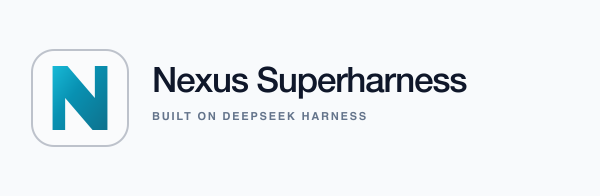
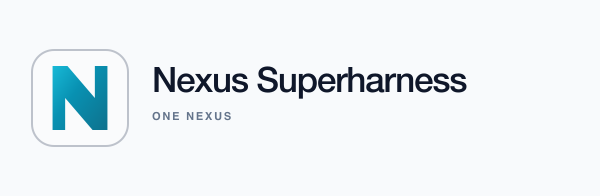
fix(desktop): drop the DeepSeek Harness credit from the packaged app identity (#41)
* fix(desktop): drop the DeepSeek attribution from the packaged identity

The About panel, Info.plist NSHumanReadableCopyright and installer art all
read the product identity, which still credited DeepSeek Harness. The
copyright now names only One Nexus, the unused attribution field is gone,
and the DMG background and Windows installer art print the publisher
instead. A spec pins the identity and artwork text.

The diagnostics guide names the crash-log directory the packaged app
actually uses, ~/Library/Logs/Nexus Superharness.

Refs #34

* fix(desktop): regenerate installer art without the DeepSeek credit

The DMG background, Windows installer banners and uninstaller sidebar now
carry the One Nexus publisher line. The PNGs are the output of
render-brand-assets.ts on a macOS runner, so every glyph uses the same
Helvetica rendering as the committed art.

The macOS uninstall cleanup script also removes the log directory the
packaged app writes, ~/Library/Logs/Nexus Superharness.

Refs #34

---------

Changed region(s): [[0.24, 0.551, 0.63, 0.6122]]

diff --git a/apps/desktop/scripts/render-brand-assets.ts b/apps/desktop/scripts/render-brand-assets.ts
@@ -12,6 +12,8 @@ const execute = promisify(execFile)
 const APP_ICON_SIZES = [16, 24, 32, 48, 64, 128, 256] as const
 /** Composer's N monogram, the one mark both products now share. */
 const MARK_PATH = 'M24 20H37L61 48V20H72V76H59L35 48V76H24Z'
+/** Publisher line under the product name; installer art names the product and its publisher only. */
+const PUBLISHER = 'ONE NEXUS'
 
 function markArtwork(color: string, x: number, y: number, size: number): string {
   // The 96-unit box is Composer's own artwork box: the monogram fills half of
@@ -19,7 +21,15 @@ function markArtwork(color: string, x: number, y: number, size: number): string 
   return `<svg x="${x}" y="${y}" width="${size}" height="${size}" viewBox="0 0 96 96" preserveAspectRatio="xMidYMid meet"><path d="${MARK_PATH}" fill="${color}"/></svg>`
 }
 
-function brandArtwork(width: number, height: number, dark: boolean, compact = false): Buffer {
+/**
+ * Build the SVG of the Windows installer banner or uninstaller sidebar.
+ * @param width - Canvas width in pixels.
+ * @param height - Canvas height in pixels.
+ * @param dark - Whether to use the dark palette.
+ * @param compact - Whether to stack the mark above a two-line name.
+ * @returns SVG document bytes.
+ */
+export function brandArtwork(width: number, height: number, dark: boolean, compact = false): Buffer {
   const foreground = dark ? '#f8fafc' : '#0f172a'
   const muted = dark ? '#94a3b8' : '#64748b'
   const tile = dark ? '#172033' : '#fafbfc'
@@ -39,10 +49,9 @@ function brandArtwork(width: number, height: number, dark: boolean, compact = fa
   const name = compact
     ? `<text x="${textX}" y="${nameY}" text-anchor="${textAnchor}" fill="${foreground}" font-family="Space Grotesk, Helvetica Neue, Arial, sans-serif" font-size="24" font-weight="600">Nexus</text>
        <text x="${textX}" y="${nameY + 24}" text-anchor="${textAnchor}" fill="${foreground}" font-family="Space Grotesk, Helvetica Neue, Arial, sans-serif" font-size="18" font-weight="600">Superharness</text>
-       <text x="${textX}" y="${nameY + 49}" text-anchor="${textAnchor}" fill="${muted}" font-family="Helvetica, Arial, sans-serif" font-size="7" font-weight="600" letter-spacing="1.1">BUILT ON DEEPSEEK</text>
-       <text x="${textX}" y="${nameY + 61}" text-anchor="${textAnchor}" fill="${muted}" font-family="Helvetica, Arial, sans-serif" font-size="7" font-weight="600" letter-spacing="1.1">HARNESS</text>`
+       <text x="${textX}" y="${nameY + 49}" text-anchor="${textAnchor}" fill="${muted}" font-family="Helvetica, Arial, sans-serif" font-size="7" font-weight="600" letter-spacing="1.1">${PUBLISHER}</text>`
     : `<text x="${textX}" y="${nameY}" text-anchor="${textAnchor}" fill="${foreground}" font-family="Space Grotesk, Helvetica Neue, Arial, sans-serif" font-size="${Math.round(height * 0.18)}" font-weight="600" letter-spacing="-1.2">Nexus Superharness</text>
-       <text x="${textX}" y="${subtitleY}" text-anchor="${textAnchor}" fill="${muted}" font-family="Helvetica, Arial, sans-serif" font-size="${Math.round(height * 0.058)}" font-weight="600" letter-spacing="1.8">BUILT ON DEEPSEEK HARNESS</text>`
+       <text x="${textX}" y="${subtitleY}" text-anchor="${textAnchor}" fill="${muted}" font-family="Helvetica, Arial, sans-serif" font-size="${Math.round(height * 0.058)}" font-weight="600" letter-spacing="1.8">${PUBLISHER}</text>`
   return Buffer.from(`<svg width="${width}" height="${height}" viewBox="0 0 ${width} ${height}" xmlns="http://www.w3.org/2000/svg">
     <defs><linearGradient id="nexus-brand" x1="8" y1="10" x2="78" y2="62" gradientUnits="userSpaceOnUse"><stop stop-color="#22d3ee"/><stop offset=".55" stop-color="#0891b2"/><stop offset="1" stop-color="#0e7490"/></linearGradient></defs>
     <rect width="${width}" height="${height}" fill="${dark ? '#0f172a' : '#f8fafc'}"/>
@@ -52,7 +61,11 @@ function brandArtwork(width: number, height: number, dark: boolean, compact = fa
   </svg>`)
 }
 
-function dmgArtwork(): Buffer {
+/**
+ * Build the SVG of the 2x macOS DMG window background.
+ * @returns SVG document bytes.
+ */
+export function dmgArtwork(): Buffer {
   return Buffer.from(`<svg width="1320" height="800" viewBox="0 0 1320 800" xmlns="http://www.w3.org/2000/svg">
     <defs>
       <radialGradient id="glow" cx="0" cy="0" r="1" gradientTransform="translate(1060 90) rotate(133) scale(740)">
@@ -69,7 +82,7 @@ function dmgArtwork(): Buffer {
     <text x="660" y="234" text-anchor="middle" fill="#64748b" font-family="Helvetica, Arial, sans-serif" font-size="18" letter-spacing="2.2">MOVE THE APP INTO APPLICATIONS</text>
     <path d="M526 407H790" stroke="#0e7490" stroke-width="7" stroke-linecap="round"/>
     <path d="M758 378L797 407L758 436" fill="none" stroke="#0e7490" stroke-width="7" stroke-linecap="round" stroke-linejoin="round"/>
-    <text x="660" y="646" text-anchor="middle" fill="#94a3b8" font-family="Helvetica, Arial, sans-serif" font-size="13" letter-spacing="1.3">NEXUS SUPERHARNESS · BUILT ON DEEPSEEK HARNESS</text>
+    <text x="660" y="646" text-anchor="middle" fill="#94a3b8" font-family="Helvetica, Arial, sans-serif" font-size="13" letter-spacing="1.3">NEXUS SUPERHARNESS · ${PUBLISHER}</text>
   </svg>`)
 }
 
@@ -122,4 +135,4 @@ async function main(): Promise<void> {
   }
 }
 
-await main()
+if (import.meta.main) await main()

diff --git a/apps/desktop/tests/product-identity.spec.ts b/apps/desktop/tests/product-identity.spec.ts
@@ -1,0 +1,34 @@
+import { describe, expect, it } from 'vitest'
+import { PRODUCT_IDENTITY } from '../product-identity.mjs'
+import { brandArtwork, dmgArtwork } from '../scripts/render-brand-assets.ts'
+
+/** Text content of every `<text>` element in an SVG document. */
+function svgText(svg: Buffer): string[] {
+  return [...svg.toString('utf8').matchAll(/<text\b[^>]*>([^<]*)<\/text>/gu)].map(match => match[1]!)
+}
+
+describe('product identity', () => {
+  it('names only the product and its publisher in the copyright', () => {
+    expect(PRODUCT_IDENTITY.copyright).toBe('Copyright © 2026 One Nexus')
+  })
+
+  it('carries no upstream name in any user-visible identity field', () => {
+    // The legacy user-data directory is a filesystem path kept for existing installs, never displayed.
+    const { legacyUserDataDirectory: _legacy, ...visible } = PRODUCT_IDENTITY
+    for (const [field, value] of Object.entries(visible)) {
+      if (typeof value === 'string') expect(value, field).not.toMatch(/deepseek/iu)
+    }
+  })
+
+  it.each([
+    ['DMG background', dmgArtwork()],
+    ['installer banner', brandArtwork(600, 196, false)],
+    ['dark installer banner', brandArtwork(600, 196, true)],
+    ['uninstaller sidebar', brandArtwork(164, 314, false, true)],
+  ])('keeps the upstream name out of the %s', (_name, svg) => {
+    const text = svgText(svg)
+    expect(text.length).toBeGreaterThan(0)
+    for (const line of text) expect(line).not.toMatch(/deepseek/iu)
+    expect(text.some(line => /ONE NEXUS/u.test(line))).toBe(true)
+  })
+})

diff --git a/apps/desktop/docs/diagnostics/README.md b/apps/desktop/docs/diagnostics/README.md
@@ -33,7 +33,7 @@ Recovery waits for Host shutdown before changing plugin activation. The native r
 
 Native dialog details include at most 1,200 UTF-16 code units and eight diagnostic lines, plus the crash report path or its pending/unavailable status. Retrieving a pending or unavailable report preserves any recovery-operation failure headline and details. Configuration paths and startup entries precede the composition inventory so plugin rows cannot displace them when output is truncated. Host error diagnostics retain only the last 64 Ki characters written to stderr. Earlier output is discarded so a long-running Host does not grow the shell’s diagnostic buffer indefinitely.
 
-Before the first fatal dialog opens, Electron writes a crash report to the platform logs directory (`app.getPath('logs')`: `~/Library/Logs/DeepSeek Harness` on macOS, `logs` under the application’s `userData` directory on Windows and Linux), waiting at most one second for the write; a slow or failed write shows the dialog with an explicit pending or unavailable status. Get diagnostic report checks the same write and reveals a saved file in the system file manager without restarting or stopping the Host; a write that completes after the initial deadline remains available. The user attaches that file to a support ticket. The attachment contains the original failure; later recovery-operation errors remain in the dialog and require a separate screenshot. Retrieving a saved report shows its sharing or reveal-failure heading while retaining the recovery error details. If writing fails, the dialog hides Get diagnostic report and suggests providing a screenshot.
+Before the first fatal dialog opens, Electron writes a crash report to the platform logs directory (`app.getPath('logs')`: `~/Library/Logs/Nexus Superharness` on macOS, `logs` under the application’s `userData` directory on Windows and Linux), waiting at most one second for the write; a slow or failed write shows the dialog with an explicit pending or unavailable status. Get diagnostic report checks the same write and reveals a saved file in the system file manager without restarting or stopping the Host; a write that completes after the initial deadline remains available. The user attaches that file to a support ticket. The attachment contains the original failure; later recovery-operation errors remain in the dialog and require a separate screenshot. Retrieving a saved report shows its sharing or reveal-failure heading while retaining the recovery error details. If writing fails, the dialog hides Get diagnostic report and suggests providing a screenshot.
 
 The file `crash-<UTC time>-<source>.log` records the source (`host` for a Host exit, `web-boot` for a renderer boot failure, `renderer` for a renderer or document failure, `main` for a shell error), whether the backend had reached ready, application and runtime versions, the error with its enumerable properties and cause chain (cut at 256 KiB), the Host’s own error and explicitly selected startup metadata (at most 64 Ki characters, including a truncation notice; startup errors reserve space for metadata by limiting the original error and startup-entry details to 8 Ki characters each, with explicit truncation notices) when the Host reported a startup failure over IPC before exiting, and the primary window’s recent error-level console output (at most 64 KiB).
 

diff --git a/apps/desktop/docs/diagnostics/README.zh.md b/apps/desktop/docs/diagnostics/README.zh.md
@@ -33,7 +33,7 @@ Host 设置可用前，恢复对话框使用本地缓存中最后确认的 Deskt
 
 原生弹窗详情最多包含 1,200 个 UTF-16 代码单元和八行诊断，并附上崩溃报告路径或仍在保存、无法保存的状态。获取仍在保存或无法保存的报告时，保留恢复操作失败的标题和详情。配置路径和启动条目排在组合清单之前，避免输出截断时被插件记录挤掉。Host 错误诊断仅保留 stderr 输出的最后 64 Ki 个字符。更早的输出会被丢弃，避免长期运行的 Host 使壳的诊断缓冲区无限增长。
 
-首个致命弹窗打开前，Electron 会向平台日志目录（`app.getPath('logs')`：macOS 为 `~/Library/Logs/DeepSeek Harness`，Windows 与 Linux 为应用 `userData` 目录下的 `logs`）写入一份崩溃报告，最多等待写入一秒；写入缓慢或失败时明确显示仍在保存或无法保存。“获取诊断报告”检查同一次写入，并在系统文件管理器中定位已保存的文件，不停止 Host 或重启；超过首次等待期限后写入完成的文件仍可获取。用户可将文件作为工单附件。附件只包含最初的故障；后续恢复操作错误保留在对话框中，需要另行截图。获取已保存报告会显示分享或打开失败的标题，同时保留恢复错误详情。写入失败时隐藏获取报告按钮，并提示提供窗口截图。
+首个致命弹窗打开前，Electron 会向平台日志目录（`app.getPath('logs')`：macOS 为 `~/Library/Logs/Nexus Superharness`，Windows 与 Linux 为应用 `userData` 目录下的 `logs`）写入一份崩溃报告，最多等待写入一秒；写入缓慢或失败时明确显示仍在保存或无法保存。“获取诊断报告”检查同一次写入，并在系统文件管理器中定位已保存的文件，不停止 Host 或重启；超过首次等待期限后写入完成的文件仍可获取。用户可将文件作为工单附件。附件只包含最初的故障；后续恢复操作错误保留在对话框中，需要另行截图。获取已保存报告会显示分享或打开失败的标题，同时保留恢复错误详情。写入失败时隐藏获取报告按钮，并提示提供窗口截图。
 
 文件 `crash-<UTC 时间>-<source>.log` 记录来源（`host` 为 Host 退出、`web-boot` 为渲染进程启动失败、`renderer` 为渲染进程或文档失败、`main` 为壳自身错误）、后端是否已就绪、应用与运行时版本、包含可枚举属性与 cause 链的错误（截至 256 KiB）、Host 在退出前通过 IPC 报告启动失败时的错误及显式选择的启动元数据（最多 64 Ki 个字符，包含截断提示；启动错误的原始错误文本和启动条目详情分别限制为 8 Ki 个字符，并明确标注截断，为结构化元数据保留空间），以及主窗口最近的 error 级 console 输出（最多 64 KiB）。
 

diff --git a/docs/user/guide/desktop-uninstall-cleanup.md b/docs/user/guide/desktop-uninstall-cleanup.md
@@ -28,6 +28,7 @@ sh -c '
 rm -rf -- \
   "$HOME/.dsh" \
   "$HOME/Library/Application Support/@deepseek-ai/dsh-desktop" \
+  "$HOME/Library/Logs/Nexus Superharness" \
   "$HOME/Library/Logs/DeepSeek Harness" \
   "$HOME/Library/Preferences/com.deepseek.dsh.plist" \
   "$HOME/Library/Preferences/ByHost"/com.deepseek.dsh.ShipIt.*.plist \

diff --git a/docs/user/guide/desktop-uninstall-cleanup.zh.md b/docs/user/guide/desktop-uninstall-cleanup.zh.md
@@ -28,6 +28,7 @@ sh -c '
 rm -rf -- \
   "$HOME/.dsh" \
   "$HOME/Library/Application Support/@deepseek-ai/dsh-desktop" \
+  "$HOME/Library/Logs/Nexus Superharness" \
   "$HOME/Library/Logs/DeepSeek Harness" \
   "$HOME/Library/Preferences/com.deepseek.dsh.plist" \
   "$HOME/Library/Preferences/ByHost"/com.deepseek.dsh.ShipIt.*.plist \
